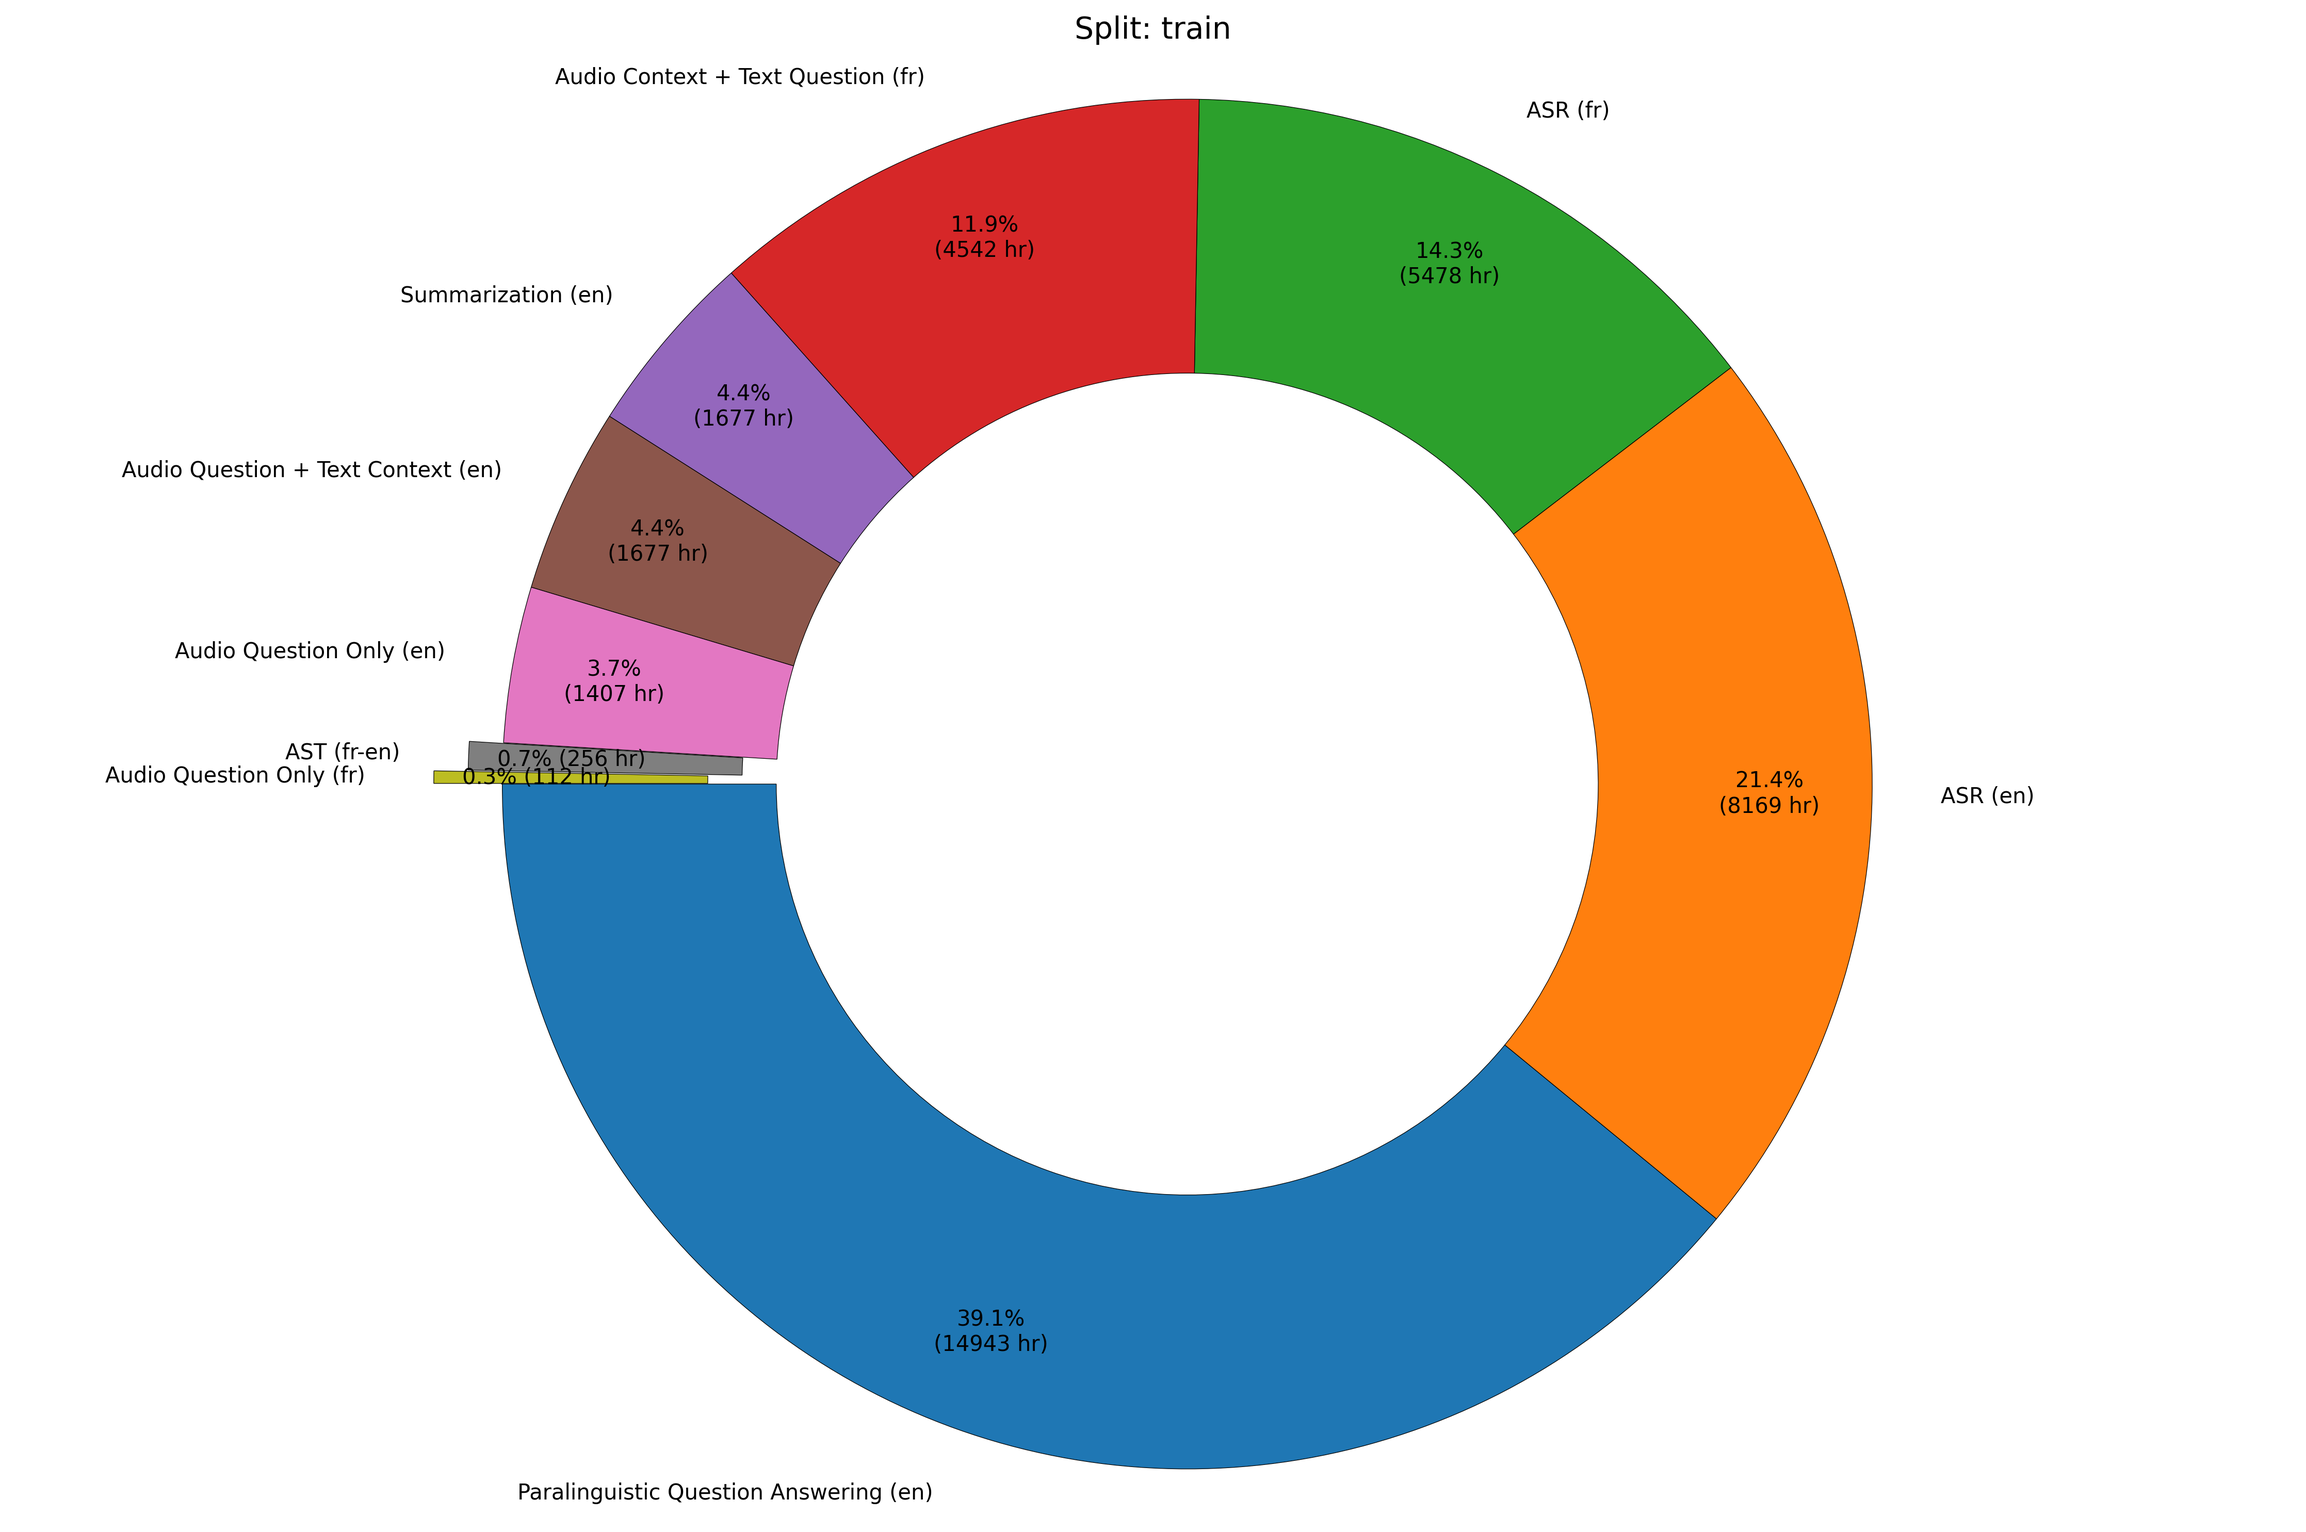
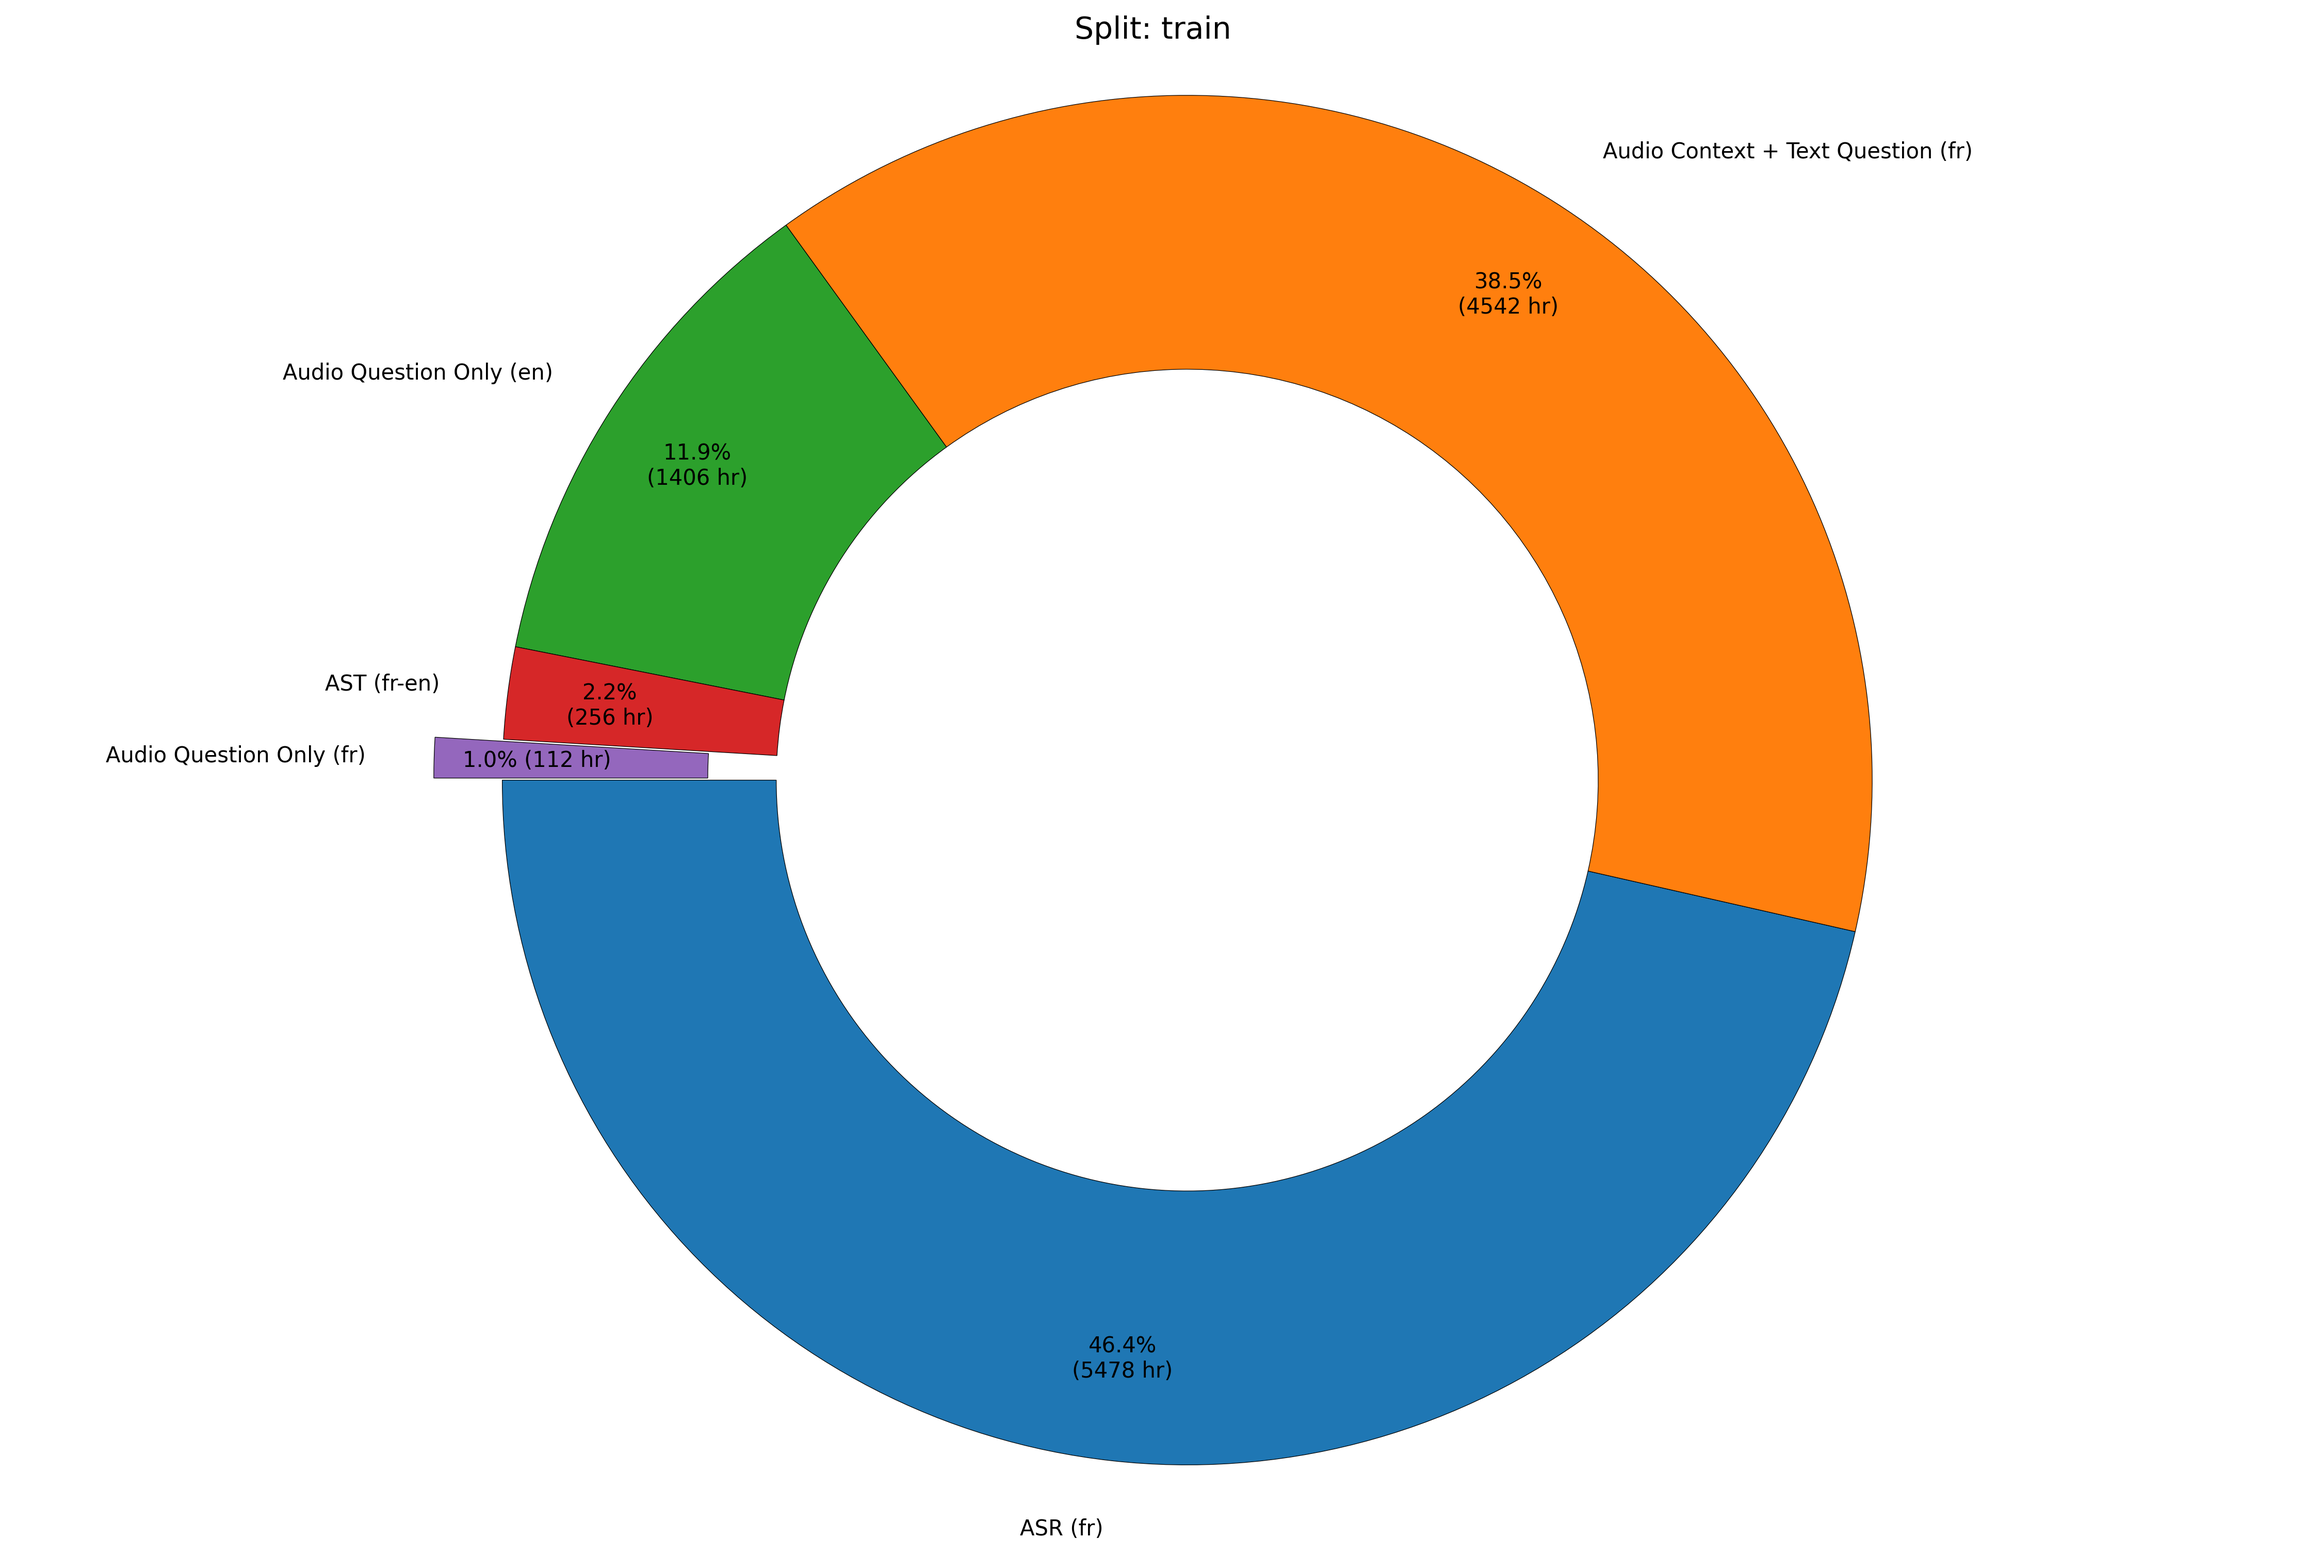
Update metadata

diff --git a/assets/plot_metadata.py b/assets/plot_metadata.py
@@ -9,7 +9,7 @@ os.makedirs(ASSETS_DIR, exist_ok=True)  # Ensure folder exists
 
 # Load CSV (expand ~ manually)
 data_path = os.path.join(ASSETS_DIR, "datasets_metadata.csv")
-df = pd.read_csv(data_path, sep=r'\s*,\s*')
+df = pd.read_csv(data_path, sep=r'\s*,\s*', engine='python')
 
 for split in "train", "test":
 
